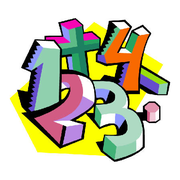
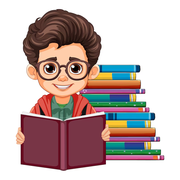
Nuova icona: ragazzo che legge
Claude-Session: https://claude.ai/code/session_01K1bfWFoZ8wtXD2uEi3Y2YW

diff --git a/index.html b/index.html
@@ -11,8 +11,8 @@
 <meta name="description" content="Il mio quaderno: esercizi sempre nuovi da fare su iPad o nel browser.">
 <title>Il mio quaderno</title>
 <link rel="manifest" href="manifest.webmanifest">
-<link rel="apple-touch-icon" href="apple-touch-icon.png?v=3">
-<link rel="icon" type="image/png" href="icon-192.png?v=3">
+<link rel="apple-touch-icon" href="apple-touch-icon.png?v=4">
+<link rel="icon" type="image/png" href="icon-192.png?v=4">
 <link rel="preconnect" href="https://fonts.googleapis.com">
 <link rel="preconnect" href="https://fonts.gstatic.com" crossorigin>
 <link href="https://fonts.googleapis.com/css2?family=Andika:wght@400;700&family=Baloo+2:wght@600;800&display=swap" rel="stylesheet">
@@ -56,7 +56,7 @@ h2{font-family:var(--display);font-size:20px;margin:0;color:var(--muted);text-tr
 <body>
 <main>
   <header class="cover">
-    <img src="apple-touch-icon.png?v=3" alt="" width="92" height="92">
+    <img src="apple-touch-icon.png?v=4" alt="" width="92" height="92">
     <div>
       <h1>Il mio quaderno</h1>
       <p>Scegli la materia e fai gli esercizi: ogni volta sono diversi.</p>

diff --git a/matematica/index.html b/matematica/index.html
@@ -8,8 +8,8 @@
 <meta name="apple-mobile-web-app-title" content="Il mio quaderno">
 <meta name="description" content="Esercizi di matematica sempre nuovi per la scuola primaria e secondaria.">
 <link rel="manifest" href="../manifest.webmanifest">
-<link rel="apple-touch-icon" href="../apple-touch-icon.png?v=3">
-<link rel="icon" type="image/png" href="../icon-192.png?v=3">
+<link rel="apple-touch-icon" href="../apple-touch-icon.png?v=4">
+<link rel="icon" type="image/png" href="../icon-192.png?v=4">
 <meta name="apple-mobile-web-app-capable" content="yes">
 <meta name="mobile-web-app-capable" content="yes">
 <title>Quaderno di matematica</title>

diff --git a/italiano/index.html b/italiano/index.html
@@ -8,8 +8,8 @@
 <meta name="apple-mobile-web-app-title" content="Il mio quaderno">
 <meta name="description" content="Esercizi di italiano: lettura, comprensione, lessico e grammatica.">
 <link rel="manifest" href="../manifest.webmanifest">
-<link rel="apple-touch-icon" href="../apple-touch-icon.png?v=3">
-<link rel="icon" type="image/png" href="../icon-192.png?v=3">
+<link rel="apple-touch-icon" href="../apple-touch-icon.png?v=4">
+<link rel="icon" type="image/png" href="../icon-192.png?v=4">
 <meta name="apple-mobile-web-app-capable" content="yes">
 <meta name="mobile-web-app-capable" content="yes">
 <title>Quaderno di italiano</title>

diff --git a/sw.js b/sw.js
@@ -1,5 +1,5 @@
 // Il mio quaderno: funziona anche senza rete dopo la prima apertura.
-const CACHE = 'qm-v6';
+const CACHE = 'qm-v7';
 const FILES = ['./', './index.html', './matematica/', './matematica/index.html', './italiano/', './italiano/index.html', './manifest.webmanifest', './icon-192.png', './icon-512.png', './apple-touch-icon.png'];
 self.addEventListener('install', e => { e.waitUntil(caches.open(CACHE).then(c => c.addAll(FILES))); self.skipWaiting(); });
 self.addEventListener('activate', e => {
